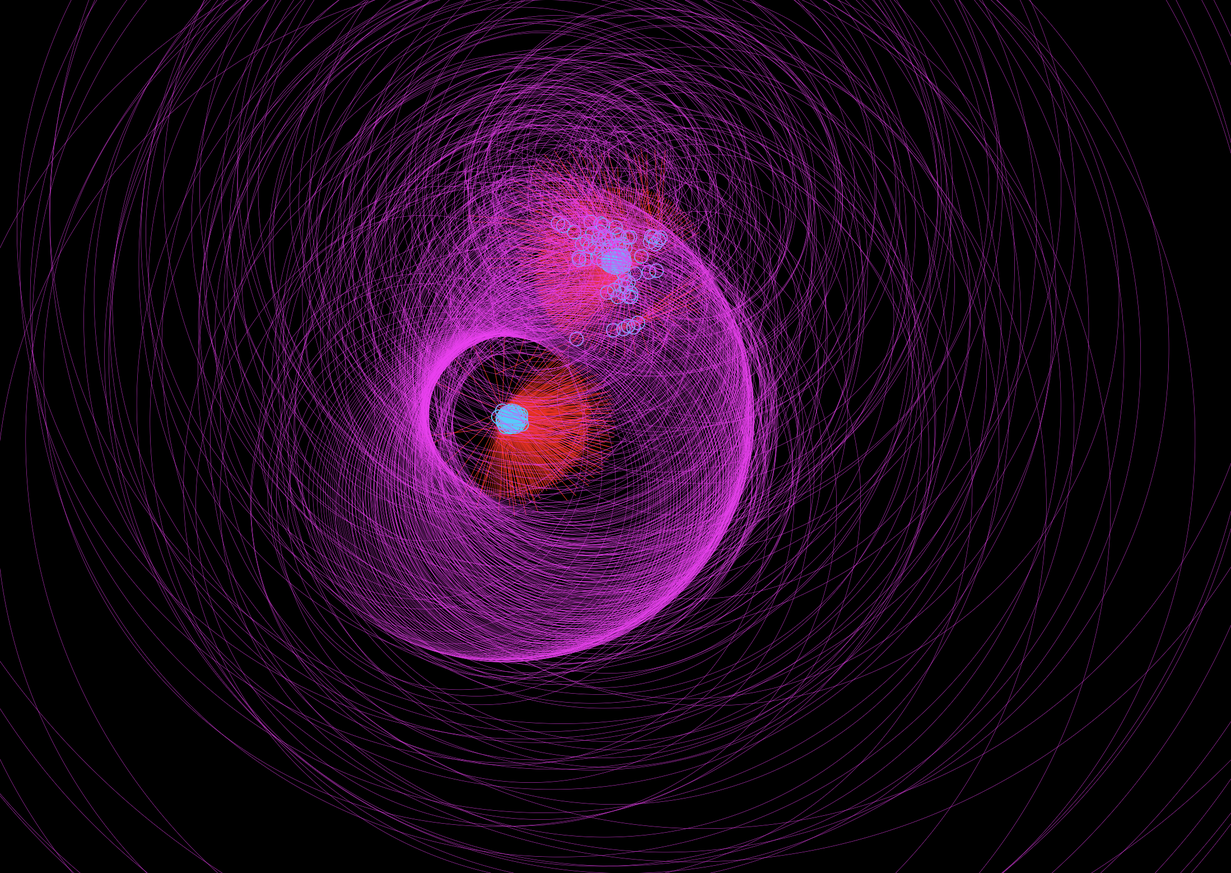
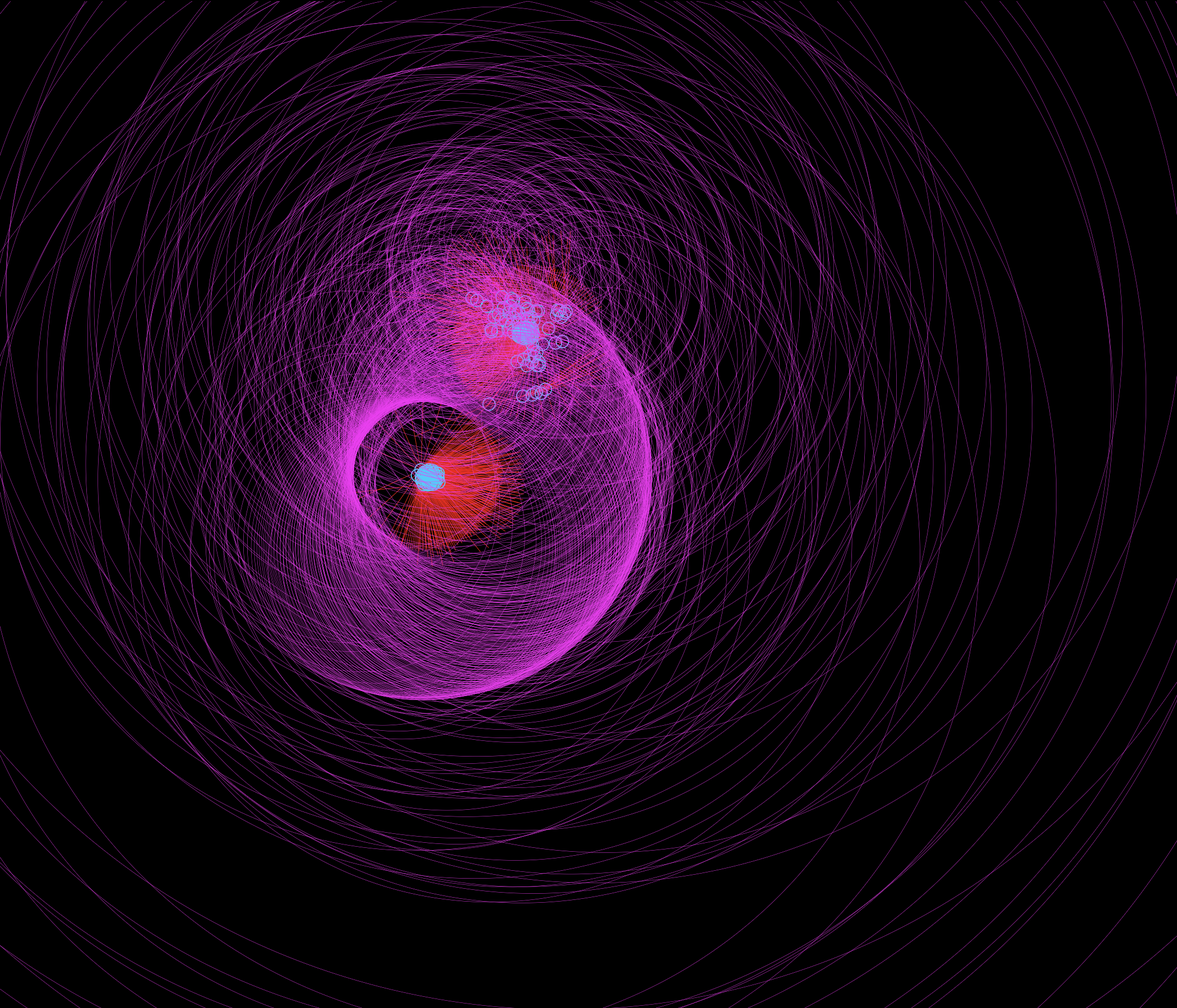
readme updates

diff --git a/client/src/components/Sidebar/Gallery/Header.js b/client/src/components/Sidebar/Gallery/Header.js
@@ -35,7 +35,7 @@ const Header = ({ image }) => {
 
   return (
     <div className={classes.root}>
-      <div className={classes.title}>{image.context.owner} / {image.context.name}</div>
+      <div className={classes.title}>{image.context.owner}/{image.context.name}</div>
       <IconButton
         aria-label="close"
         className={classes.closeButton}

diff --git a/client/src/store/actions/gallery.js b/client/src/store/actions/gallery.js
@@ -49,7 +49,7 @@ export const publishImage = () => {
     const { fill } = visStyles(state).background
     const backgroundColor = colorString(fill)
 
-    uploadImage(previewImage, `${repo.name}-${Date.now()}`, {
+    uploadImage(previewImage, `${name}-${Date.now()}`, {
       owner,
       name,
       backgroundColor,

diff --git a/client/src/services/api.js b/client/src/services/api.js
@@ -2,7 +2,7 @@ import axios from 'axios'
 import { api } from 'constants.js'
 
 // FOR DEVELOPMENT ONLY
-import testRepo from './data/cloc.json'
+import testRepo from './data/CRA.json'
 const USE_TEST_REPO = false
 
 const { HTTP_URL, WS_URL } = api

diff --git a/client/src/services/gallery.js b/client/src/services/gallery.js
@@ -71,7 +71,7 @@ export async function uploadImage(
   const opts = {
     public_id: imageId,
     file: dataUri,
-    folder: TAG,
+    // folder: TAG,
     tags: TAG,
     upload_preset: UPLOAD_PRESET,
     context: packContext(context),

diff --git a/README.md b/README.md
@@ -1,10 +1,72 @@
-## Overview
+### Codeflower
 
-This is codeflower, an app for visualizing git repositories. If you give it a repo, it generates a force directed graph that allows you to see the overall file structure of the repo, as well as the languages used and the number of lines of code in each language.
+It's a tool! Or maybe just a toy? Whatever you call it, the app visualizes git repositories. Here's one of [facebook/create-react-app](https://github.com/facebook/create-react-app):
 
-You can access the app in two ways:
+![create-react-app](docs/images/create-react-app.png)
 
-1. by heading to [codeflower.la](https://codeflower.la), and entering the git clone url of the repo you want to visualize.
+### What is that?
 
-2. by installing the app as an extension for [Chrome](https://chrome.google.com/webstore/detail/codeflower/mnlengnbfpfgcfdgfpkjekoaeophmmeh) or [Firefox](https://addons.mozilla.org/en-US/firefox/addon/codeflower/). Once it's installed, navigate to the github page of the repo you want to visualize and click the "Codeflower" tab.
+On the left we've got a table listing all the languages in the repo, and the number of files and lines of each language. Each language has a unique color, and those colors are spaced evenly along a linear gradient. That gradient is determined by the picker on the lower left.
 
+The colorful thing on the right is [d3 force-directed graph](https://github.com/d3/d3-force). The shape of the graph corresponds directly to the create-react-app's file tree. The outer (colored) nodes represent the files, and the inner (white) ones represent the folders. The color of each outer node indicates the language the file is written in. And the radius of the outer nodes reflects the number of lines of code in the corresponding files -- i.e. bigger nodes mean more lines of code.
+
+You can interact with the viz in a number of ways:
+  - use the mousewheel to zoom in and out
+  - drag the dark part of the viz the move the whole thing around
+  - drag an individual folder or file node to move it around
+  - hover on a folder or file node to see its path in the file tree
+  - click on a file node to view the full text of the file
+  - hover on a line in the table to suppress all files that are not in the language you're hovering on
+  - use the gradient picker to change the colors assigned to the languages
+
+### Customizing the viz
+
+Almost everything about the visualization can be modified. If you click the settings tab in the sidebar you'll see a whole bunch of knobs and buttons and such:
+
+<div>
+  <img src="./docs/images/forces.png" height="400" />
+  <img src="./docs/images/styles.png" height="400" />
+</div>
+
+<p /><p />
+These allow you to change the forces that generate the graph, and change all of the styling of the visualization. If you mess around with the settings (especially opacity and file radius) you can make some intriguing images:
+
+<p />
+<div>
+  <img src="./docs/images/purple-haze.png" width="400">
+  <img src="./docs/images/green-ghost.png" width="400">
+</div>
+<div>
+  <img src="./docs/images/blue-dream.png" width="400">
+  <img src="./docs/images/chaos.png" width="400">
+</div>
+
+### Where to find the app
+
+#### 1. on the web
+
+The app lives at [codeflower.la](https://codeflower.la). Enter a git clone url in the search field to visualize a repo.
+
+You can skip the search field entirely by embedding the owner and name of the repo in the URL. For example,
+
+[codeflower.la/?owner=facebook&name=create-react-app](codeflower.la/?owner=facebook&name=create-react-app)
+
+will take you directly to the create-react-app visualization shown above. (Currently this option only works for Github-hosted repos.)
+
+#### 2. as a browser extension
+
+The app is also available as a extension for [chrome](https://chrome.google.com/webstore/detail/codeflower/mnlengnbfpfgcfdgfpkjekoaeophmmeh) and a [firefox](https://addons.mozilla.org/en-US/firefox/addon/codeflower/). If you install the browser extension, you can visualize repos inside Github with a single click:
+
+![chrome-extension](docs/images/chrome.png)
+
+### Limitations
+
+The app uses SVG to render the visualization, which means that every file and folder is an individual DOM node. This creates a lot of work for the browser, and as the number of nodes grows larger you'll start to encounter performance problems. The optimal repo size seems to be between a couple of hundred nodes (large enough to be interesting) and 2500 or so (too large to render smoothly).
+
+It's possible that a Canvas or Web-GL based solution would help with performance for large repos, but those solutions would also limit the interactivity of the visualization. Ideas are welcome!
+
+### Credits
+
+The app could not function at all without the `cloc` command-line tool ([AlDanial/cloc](https://github.com/AlDanial/cloc)), which does the hard work of (1) identifying the language of each file in a given repo, and (2) counting the number of lines of code in each file. `cloc` runs on the Node server after the repo has been cloned.
+
+Also, [Fran&#231;ois Zaninotto](https://twitter.com/francoisz) was the first to notice that `cloc` output could be used to generate a force-directed graph, and he wrote the [original Codeflower visualization](https://github.com/fzaninotto/CodeFlower). This app mostly just adds some visual flourishes and a whole lot of automation to his idea.
